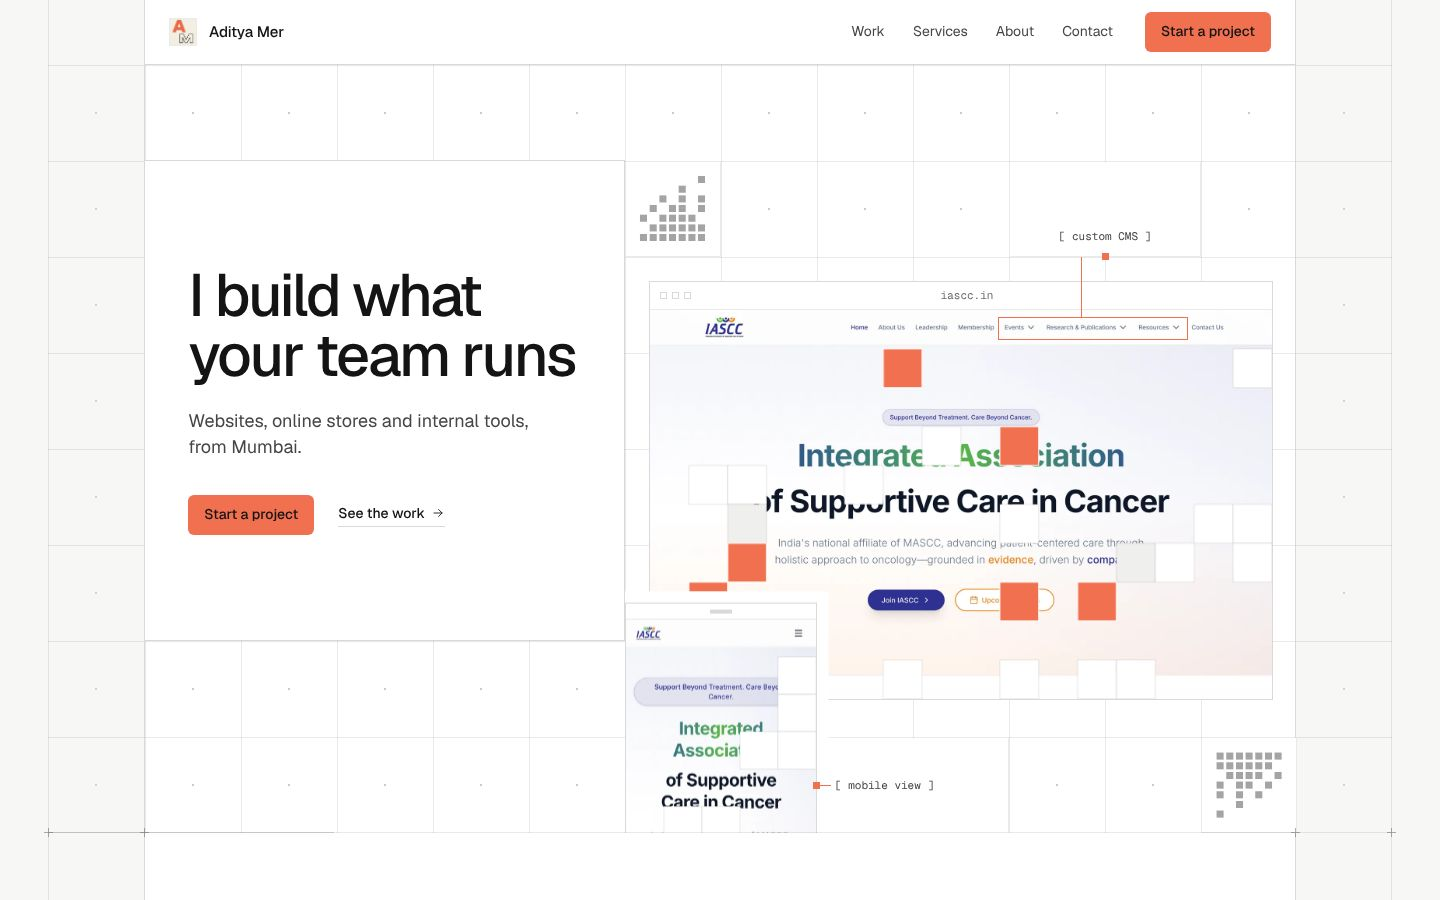
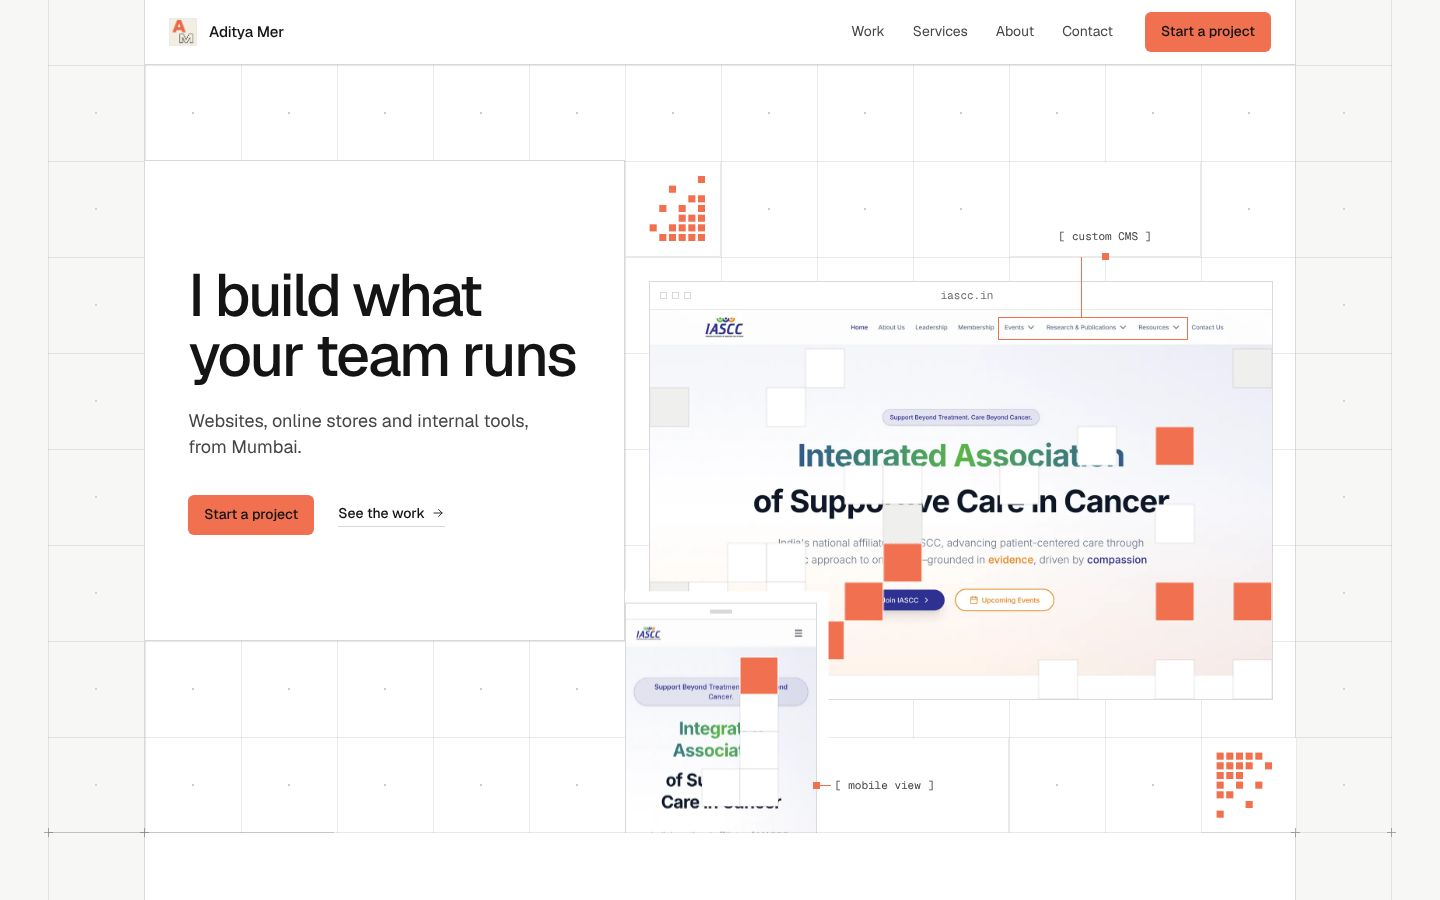
Mock A: hero v2 (screenshot-led, 24 words)
Claude-Session: https://claude.ai/code/session_01WUuDZFGfVJ36FVGzzxM2e9

diff --git a/mocks/a-drafting-sheet/index.html b/mocks/a-drafting-sheet/index.html
@@ -497,8 +497,8 @@ html.js .in>.rl .ln{transform:none}
     </div>
     <p class="co" style="--ga:2/10/3/12;--gm:2/4/3/7"><span>custom CMS</span><i></i></p>
     <p class="co side" style="--ga:8/8/9/10;--gm:7/3/8/6"><b></b><i></i><span>mobile view</span></p>
-    <div class="dm sm cellw" data-g="cnr" aria-hidden="true" style="--ga:2/6;--gm:2/1"></div>
-    <div class="dm sm cellw r180" data-g="cnr" aria-hidden="true" style="--ga:8/12;--gm:7/6"></div>
+    <div class="dm sm cellw a" data-g="cnr" aria-hidden="true" style="--ga:2/6;--gm:2/1"></div>
+    <div class="dm sm cellw a r180" data-g="cnr" aria-hidden="true" style="--ga:8/12;--gm:7/6"></div>
   </div>
 </section>
 
@@ -787,7 +787,7 @@ html.js .in>.rl .ln{transform:none}
     mail:['#######','##...##','#.#.#.#','#..#..#','#.....#','#.....#','#######'],
     paper:['#####..','#...##.','#....##','#.###.#','#.....#','#.###.#','#######'],
     cart:['##.....','.######','.#....#','.#...#.','.#####.','.......','..#..#.'],
-    cnr:['......#','....#..','..#.#.#','.#.##.#','#.####.','.######','#######'],
+    cnr:['......#','...#...','.....##','..#.#.#','....###','.#.####','..#####'],
     app:['#######','#######','#.....#','#.##..#','#.....#','#.####.','#######']
   };
   function outline(m){var h=m.length,w=m[0].length,o=[];for(var y=0;y<h;y++){var r='';for(var x=0;x<w;x++){var on=m[y][x]=='#',e=!on?0:(y==0||x==0||y==h-1||x==w-1||m[y-1][x]!='#'||m[y+1][x]!='#'||m[y][x-1]!='#'||m[y][x+1]!='#');r+=e?'#':'.'}o.push(r)}return o}

diff --git a/mocks/a-drafting-sheet/NOTES.md b/mocks/a-drafting-sheet/NOTES.md
@@ -51,3 +51,11 @@ Swap the name and the page no longer fits:
 - the case studies, the Flier merge table and Tata Memorial Hospital are specific to him
 
 The weakest part is the H1, which is plain on purpose ("Websites, online stores and web apps for organisations and small businesses"). The specifics sit in the lead line, which names IASCC, Younique India and Flier.
+
+## Hero v2 (owner: "too much text, not appealing to explore")
+- **Composition:** the 96px cell grid and frame stay. Left, a paper block spanning 5 cells holds the H1 "I build what your team runs", one sub-line and two actions (`Start a project`, then `See the work` as a quiet text link). Right, the real IASCC site in a hairline browser window (iascc.webp) with the IASCC phone capture rising from, and clipped by, the hero's bottom edge.
+- **Dot matrix → work:** the screenshots start covered by grid cells (paper squares, a few orange or grey). Bottom rows clear first on load. About 13% stay until you scroll (`animation-timeline: scroll(root)`). The windows also rise on scroll: the desktop by half a cell, the phone by 2.2 cells. Two orange pixel clusters sit at the window's corners.
+- **Callouts:** two grid cells act as callouts. `[ custom CMS ]` has a leader to an orange box around the Events and Publications menus, which the team edits through the CMS. `[ mobile view ]` points at the phone. The window bar reads `iascc.in`. Counting the bar, that makes 3 labels.
+- **Word count:** 25 visible words (count.js reports 24 because the URL bar is aria-hidden). The 1-cell AM monogram is gone, and the header logo carries it.
+- **Moved:** the lead paragraph (Aditya Mer, IASCC, Younique India, Flier, "AI comes in where it saves time") and the availability and email line now open the `.work` section. The gutter coordinates moved to the footer's Location cell. iascc.in, sendflier.tech, IEEE TENSYMP '24, youniqueindia.co.in and FastWrite 6,000+ were already in the work and about sections.
+- **Checked:** horizontal overflow is 0px at 390, 1024 and 1440. CLS is 0.002 at 1440, 0.012 at 1024 and 0 at 390. With reduced motion, the covers are not rendered, the windows sit at rest and 0 of 256 animated elements are hidden. Without JS, no covers are generated.
